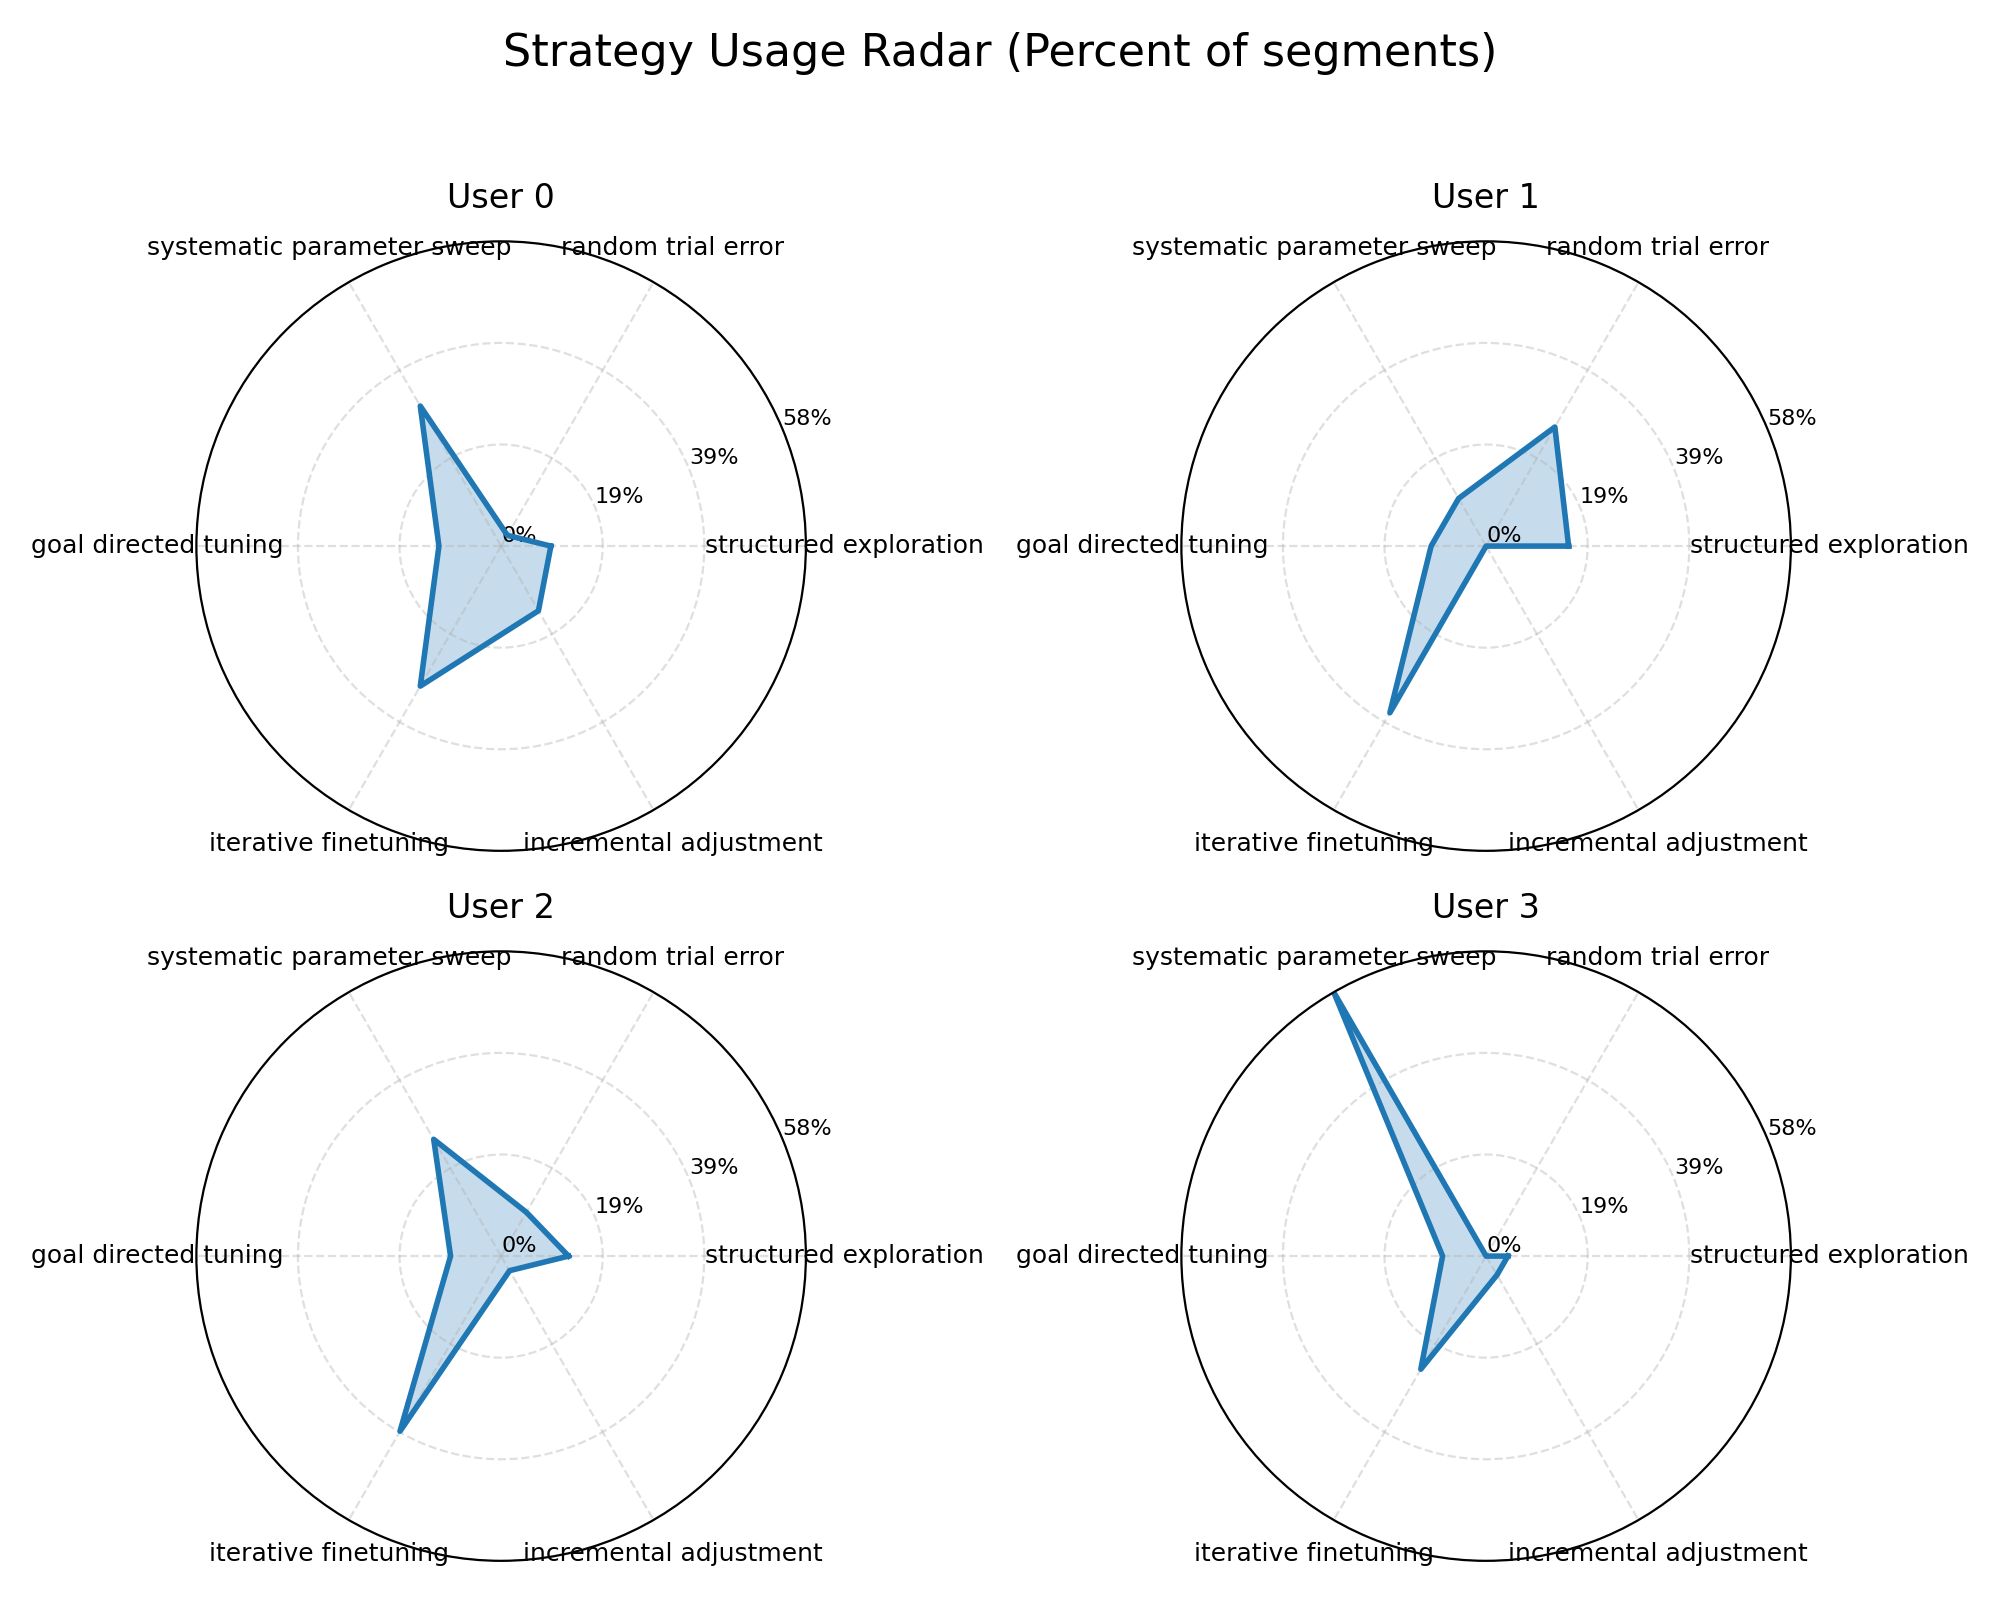
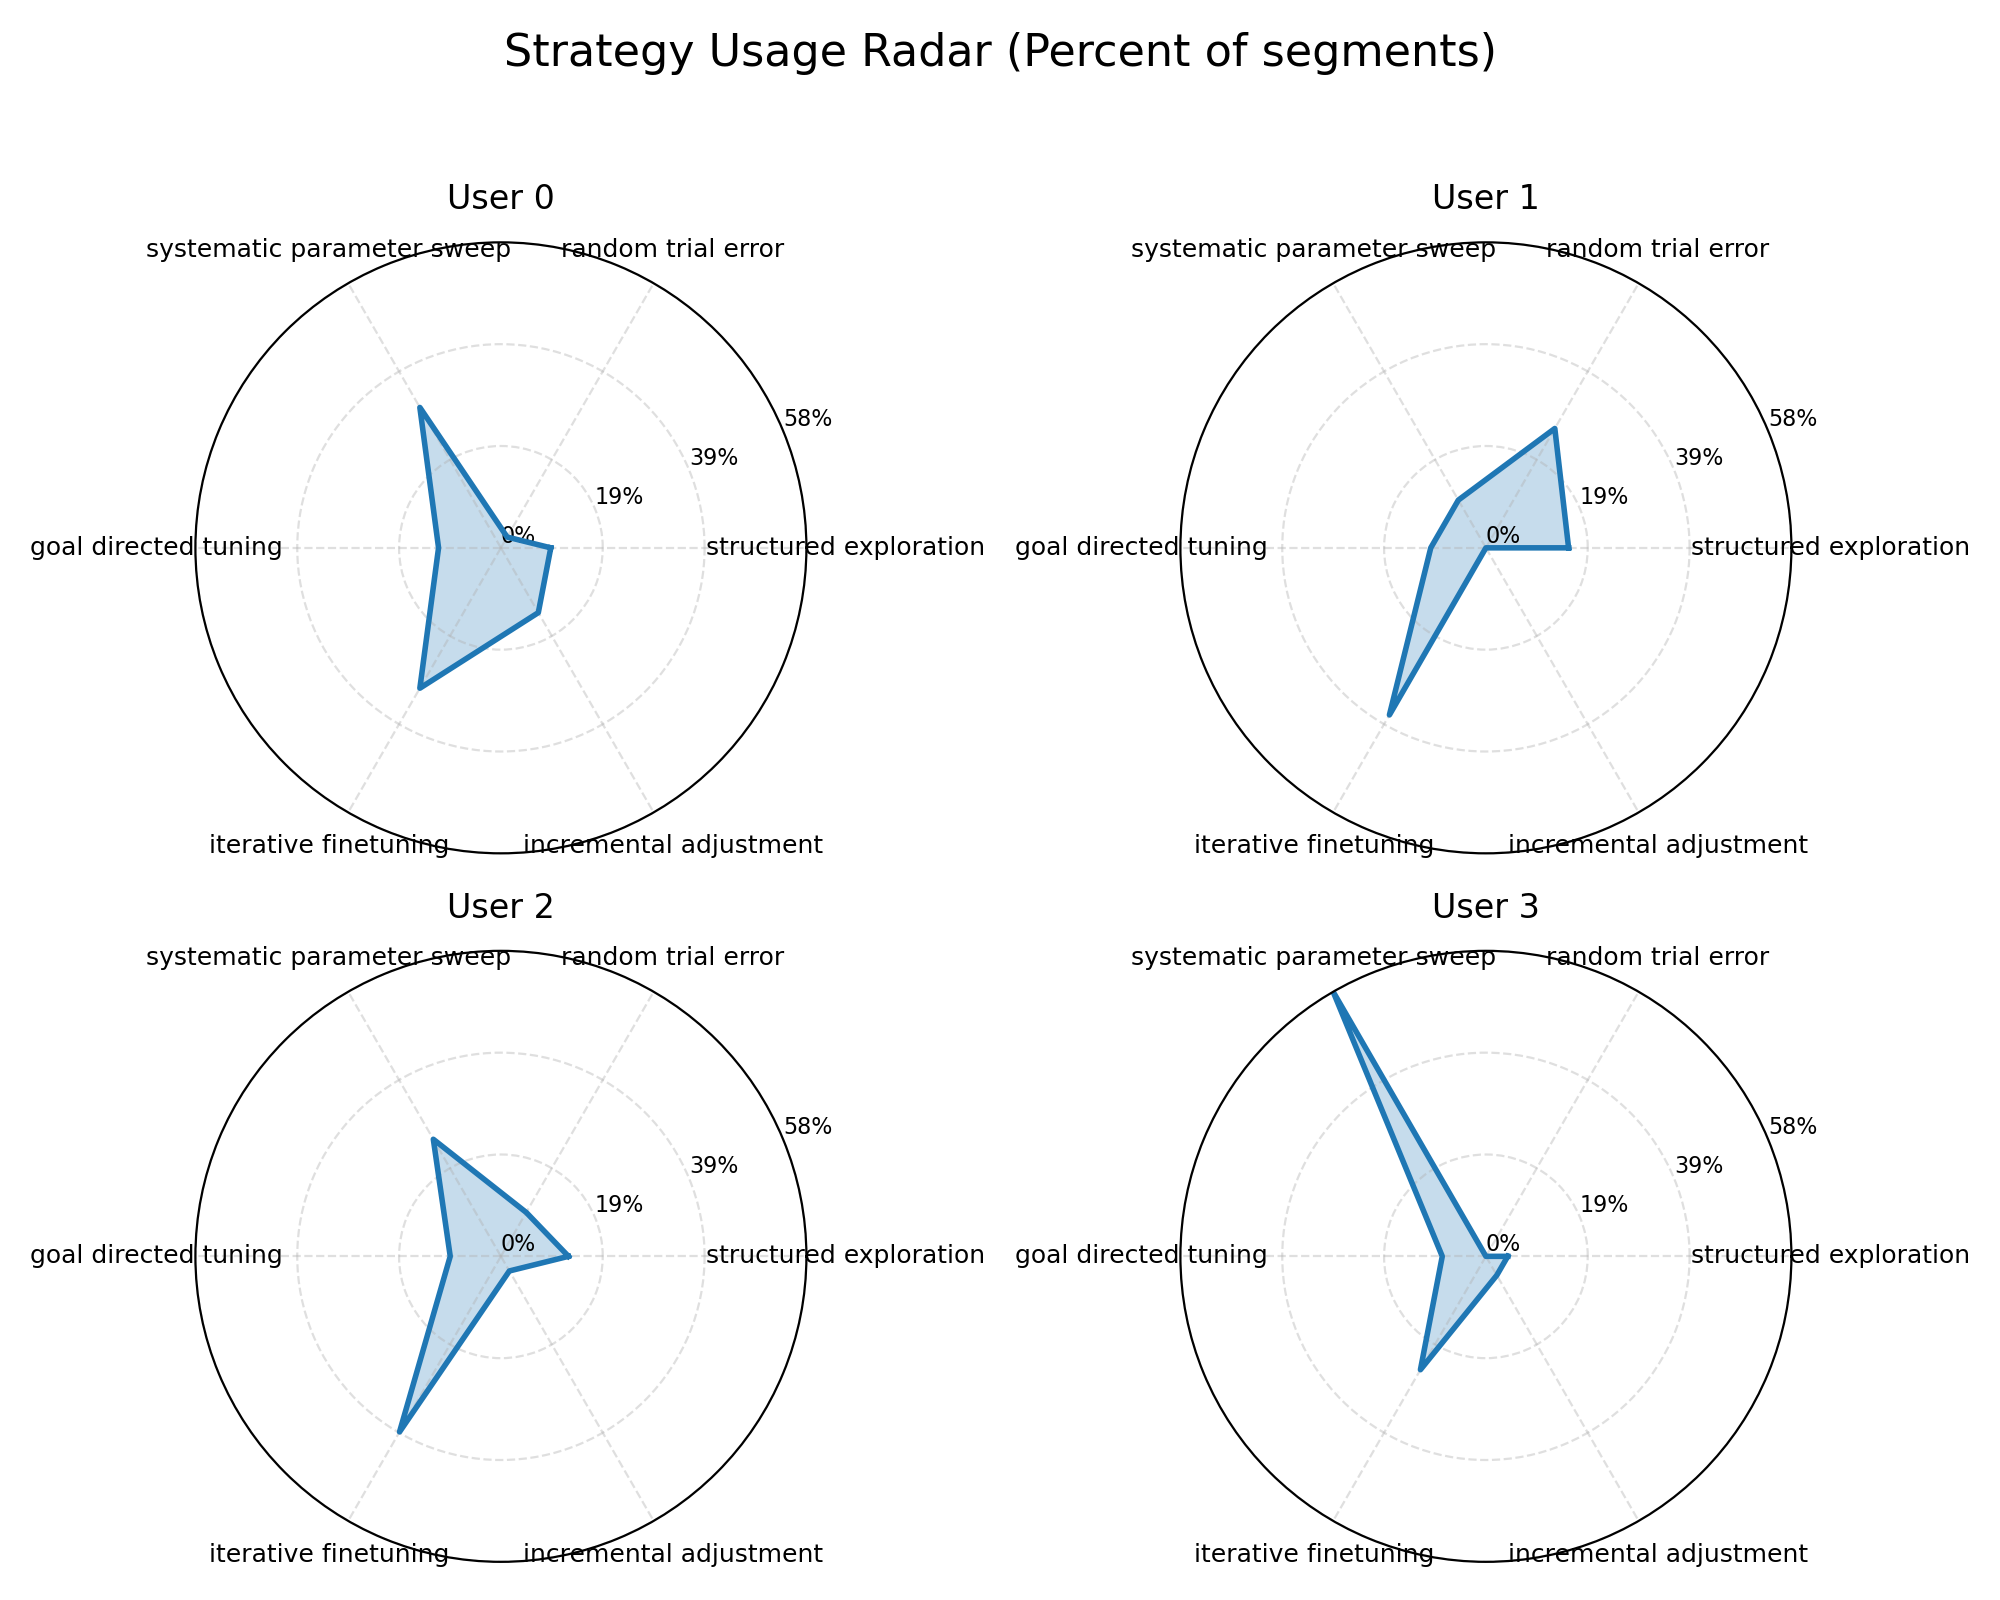
cleaner main GUI

diff --git a/plot_strategy.py b/plot_strategy.py
@@ -1122,10 +1122,12 @@ def plot_timeline():
     t_max = max(df_trends["endtime"].max(), df_speed["timestamp_sec"].max())
 
     # ----------------------------------------------------------
-    # Build figure
+    # Build figure - Start with just 1 player lane (simplified default)
+    # Robot speed is hidden by default, additional players can be toggled
     # ----------------------------------------------------------
-    n_rows = len(users) + 1
-    fig, axes = plt.subplots(nrows=n_rows, sharex=True, figsize=(12, 2 * n_rows))
+    # We create all axes but hide most by default
+    n_rows = len(users) + 1  # speed + all user lanes
+    fig, axes = plt.subplots(nrows=n_rows, sharex=True, figsize=(12, 6))
 
     # Ensure axes is iterable and 1-D so axes[...] indexing always works
     if not isinstance(axes, (list, tuple, np.ndarray)):
@@ -1134,8 +1136,14 @@ def plot_timeline():
         # flatten any 2D axes array to 1D list
         axes = list(np.array(axes).reshape(-1))
 
+    # Track visibility state for each panel
+    visibility_state = {
+        'speed': False,  # Robot speed hidden by default
+        'players': {user: (i == 0) for i, user in enumerate(users)}  # Only first player visible
+    }
+
     # ----------------------------------------------------------
-    # 1) SPEED PANEL
+    # 1) SPEED PANEL (hidden by default)
     # ----------------------------------------------------------
     ax_speed = axes[0]
     ax_speed.set_title(t('title'), fontsize=16, pad=10)
@@ -1162,6 +1170,9 @@ def plot_timeline():
 
     # Keep only speed curve legend here
     ax_speed.legend(loc="upper right", fontsize=10)
+    
+    # Hide speed panel by default
+    ax_speed.set_visible(False)
 
     # ----------------------------------------------------------
     # 2) USER PANELS
@@ -1223,7 +1234,7 @@ def plot_timeline():
 
     for i, user in enumerate(users):
         ax = axes[i + 1]
-        ax.set_title(t('user_title', user=user, strategy=t('no_strategy')), fontsize=14, pad=6)
+        ax.set_title(t('user_title', user=user, strategy=t('no_strategy')), fontsize=11, pad=2)
 
         df_u = df_plot[df_plot["user_id"] == user]
         user_segments[user] = []  # Store segments for this user
@@ -1255,6 +1266,10 @@ def plot_timeline():
         ax.set_yticks([])
         ax.set_ylabel(t('user_label', user=user), rotation=0, labelpad=30)
         ax.grid(axis='x', alpha=0.2)
+        
+        # Hide all player lanes except the first one by default
+        if i > 0:
+            ax.set_visible(False)
 
     # ----------------------------------------------------------
     # GLOBAL TIME AXIS
@@ -1283,7 +1298,7 @@ def plot_timeline():
             legend_labels,
             title=t('strategies_legend'),
             loc="upper left",
-            bbox_to_anchor=(0.83, 0.75),
+            bbox_to_anchor=(0.83, 0.92),
             frameon=True,
             fontsize=11
         )
@@ -1333,7 +1348,7 @@ def plot_timeline():
                 legend_labels,
                 title=t('strategies_legend'),
                 loc="upper left",
-                bbox_to_anchor=(0.83, 0.75),
+                bbox_to_anchor=(0.83, 0.92),
                 frameon=True,
                 fontsize=11
             )
@@ -1423,13 +1438,107 @@ def plot_timeline():
     fig.canvas.mpl_connect('motion_notify_event', on_hover)
 
     # ----------------------------------------------------------
+    # VISIBILITY CHECKBOXES (toggle player lanes and robot speed)
+    # ----------------------------------------------------------
+    from matplotlib.widgets import CheckButtons
+    
+    # Build checkbox labels: Robot Speed + all players
+    checkbox_labels = ['Robot Speed'] + [f'Player {u}' for u in users]
+    # Initial visibility: speed=off, first player=on, others=off
+    checkbox_initial = [False] + [(i == 0) for i in range(len(users))]
+    
+    # Create checkbox axes on the left side
+    checkbox_ax = plt.axes([0.01, 0.35, 0.10, 0.25])
+    checkbox_ax.set_title('Show/Hide', fontsize=9, pad=2)
+    checkboxes = CheckButtons(checkbox_ax, checkbox_labels, checkbox_initial)
+    
+    # Style the checkboxes
+    for label in checkboxes.labels:
+        label.set_fontsize(8)
+    
+    def update_visibility(label):
+        """Toggle visibility of panels based on checkbox state."""
+        if label == 'Robot Speed':
+            visibility_state['speed'] = not visibility_state['speed']
+            ax_speed.set_visible(visibility_state['speed'])
+        else:
+            # Extract user id from label "Player X"
+            user_str = label.replace('Player ', '')
+            try:
+                user_id = int(user_str)
+            except ValueError:
+                user_id = user_str
+            
+            if user_id in visibility_state['players']:
+                visibility_state['players'][user_id] = not visibility_state['players'][user_id]
+                user_idx = users.index(user_id)
+                axes[user_idx + 1].set_visible(visibility_state['players'][user_id])
+        
+        # Adjust the layout based on visible panels
+        adjust_layout()
+    
+    def adjust_layout():
+        """Dynamically resize and reposition visible axes."""
+        # Count visible panels
+        visible_axes = []
+        if visibility_state['speed']:
+            visible_axes.append(ax_speed)
+        for user in users:
+            if visibility_state['players'].get(user, False):
+                user_idx = users.index(user)
+                visible_axes.append(axes[user_idx + 1])
+        
+        n_visible = len(visible_axes)
+        if n_visible == 0:
+            return
+        
+        # Calculate new positions for visible axes
+        # Leave space for sliders at bottom and checkboxes on left
+        plot_left = 0.12
+        plot_right = 0.82
+        plot_bottom = 0.18  # More space for sliders and buttons
+        plot_top = 0.92
+        plot_height = plot_top - plot_bottom
+        
+        # Maximum height per panel (limit lane height)
+        max_panel_height = 0.12  # Limit each lane to this height
+        gap = 0.06  # Increased gap between panels for title spacing
+        
+        # Calculate actual panel height (use max if panels would be too tall)
+        available_per_panel = plot_height / n_visible
+        panel_height = min(available_per_panel - gap, max_panel_height)
+        
+        # Total height needed
+        total_needed = n_visible * (panel_height + gap) - gap
+        
+        # Start from top, centered if there's extra space
+        start_top = plot_top if total_needed >= plot_height else plot_top - (plot_height - total_needed) / 2
+        
+        # Hide all axes first (move to invisible position)
+        for ax in axes:
+            ax.set_position([0, 0, 0, 0])
+        
+        # Position visible axes from top to bottom with proper spacing
+        for i, ax in enumerate(visible_axes):
+            top = start_top - i * (panel_height + gap)
+            bottom = top - panel_height
+            ax.set_position([plot_left, bottom, plot_right - plot_left, panel_height])
+        
+        fig.canvas.draw_idle()
+    
+    checkboxes.on_clicked(update_visibility)
+
+    # ----------------------------------------------------------
     # INTERACTIVE TIMELINE SLIDER
     # ----------------------------------------------------------
-    # Create space for slider and buttons at the bottom
-    plt.tight_layout(rect=(0, 0.12, 0.82, 1))
+    # Create space for slider and buttons at the bottom, checkboxes on left
+    plt.tight_layout(rect=(0.12, 0.18, 0.82, 0.95))
     
-    # Add time slider axis
-    slider_ax = plt.axes([0.15, 0.07, 0.65, 0.02])
+    # Apply initial layout for visible panels
+    adjust_layout()
+    
+    # Add time slider axis - leave space on left for play button
+    slider_ax = plt.axes([0.18, 0.10, 0.50, 0.02])
     time_slider = Slider(
         slider_ax,
         t('time_slider'),
@@ -1441,7 +1550,7 @@ def plot_timeline():
     )
     
     # Add zoom slider axis
-    zoom_ax = plt.axes([0.15, 0.04, 0.65, 0.02])
+    zoom_ax = plt.axes([0.18, 0.05, 0.50, 0.02])
     total_duration = t_max - t_min
     zoom_slider = Slider(
         zoom_ax,
@@ -1459,12 +1568,12 @@ def plot_timeline():
         line = ax.axvline(t_min, color='black', linewidth=2, linestyle='-', alpha=0.8)
         vertical_lines.append(line)
     
-    # Add timestamp text display
-    time_text = fig.text(0.85, 0.075, '', fontsize=12, fontweight='bold', 
+    # Add timestamp text display - to the right of sliders
+    time_text = fig.text(0.78, 0.10, '', fontsize=10, fontweight='bold', 
                          bbox=dict(boxstyle='round', facecolor='wheat', alpha=0.8))
     
     # Zoom level text display
-    zoom_text = fig.text(0.85, 0.045, '', fontsize=10,
+    zoom_text = fig.text(0.78, 0.05, '', fontsize=9,
                          bbox=dict(boxstyle='round', facecolor='lightblue', alpha=0.8))
     
     def update_view():
@@ -1527,7 +1636,7 @@ def plot_timeline():
         for i, user in enumerate(users):
             ax = axes[i + 1]
             current_strategy = get_current_strategy(user, current_time)
-            ax.set_title(t('user_title', user=user, strategy=current_strategy), fontsize=14, pad=6)
+            ax.set_title(t('user_title', user=user, strategy=current_strategy), fontsize=11, pad=2)
         
         # Update view to follow current time with current zoom
         update_view()
@@ -1598,7 +1707,7 @@ def plot_timeline():
         for i, user in enumerate(users):
             ax = axes[i + 1]
             current_strategy = get_current_strategy(user, current_time)
-            ax.set_title(t('user_title', user=user, strategy=current_strategy), fontsize=14, pad=6)
+            ax.set_title(t('user_title', user=user, strategy=current_strategy), fontsize=11, pad=2)
             ax.set_ylabel(t('user_label', user=user), rotation=0, labelpad=30)
         
         # Update slider labels
@@ -1632,7 +1741,7 @@ def plot_timeline():
                 legend_labels,
                 title=t('strategies_legend'),
                 loc="upper left",
-                bbox_to_anchor=(0.83, 0.75),
+                bbox_to_anchor=(0.83, 0.92),
                 frameon=True,
                 fontsize=11
             )
@@ -1652,8 +1761,8 @@ def plot_timeline():
         
         refresh_all_text()
     
-    # Add Play/Pause button
-    button_ax = plt.axes([0.02, 0.07, 0.08, 0.03])
+    # Add Play/Pause button - positioned to the left of the time slider
+    button_ax = plt.axes([0.02, 0.06, 0.08, 0.04])
     play_button = Button(button_ax, t('play'), color='#4e409f', hovercolor='#64748b')
     play_button.label.set_color('white')
     play_button.label.set_fontweight('bold')
@@ -1673,16 +1782,17 @@ def plot_timeline():
         except Exception as exc:
             print(f"[WARN] Failed to launch dashboard process: {exc}")
 
-    nav_button_ax = plt.axes([0.82, 0.94, 0.12, 0.035])
+    # Dashboard button - closer below the legend on the right side
+    nav_button_ax = plt.axes([0.83, 0.52, 0.12, 0.035])
     nav_button = Button(nav_button_ax, t('dashboard_button'), color='#0d9488', hovercolor='#14b8a6')
     nav_button.label.set_color('white')
     nav_button.label.set_fontweight('bold')
     nav_button.on_clicked(open_dashboard)
     
     # ----------------------------------------------------------
-    # LANGUAGE TOGGLE BUTTON (NS app style)
+    # LANGUAGE TOGGLE BUTTON - below dashboard button
     # ----------------------------------------------------------
-    lang_button_ax = plt.axes([0.02, 0.02, 0.04, 0.03])
+    lang_button_ax = plt.axes([0.83, 0.47, 0.05, 0.035])
     lang_button = Button(lang_button_ax, 'EN', color='#4e409f', hovercolor='#64748b')
     lang_button.label.set_color('white')
     lang_button.label.set_fontweight('bold')
